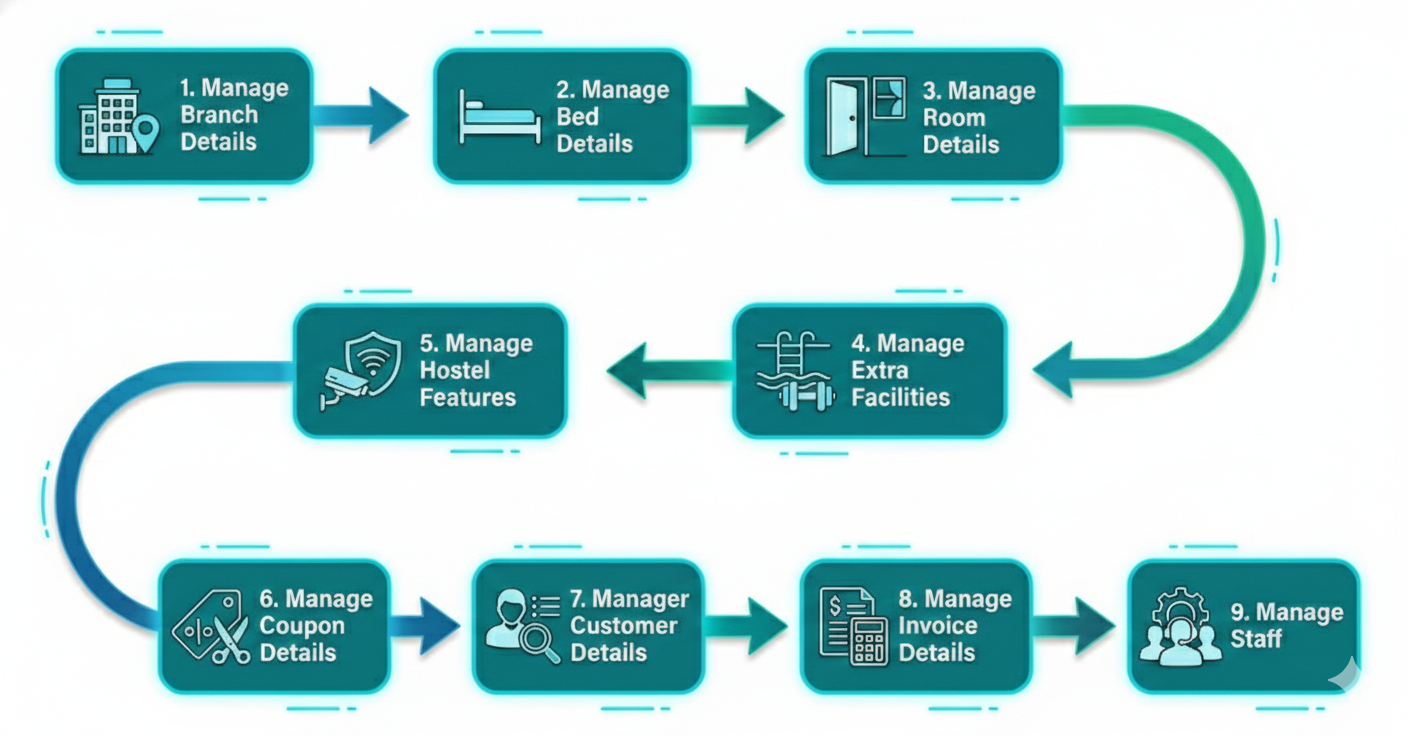
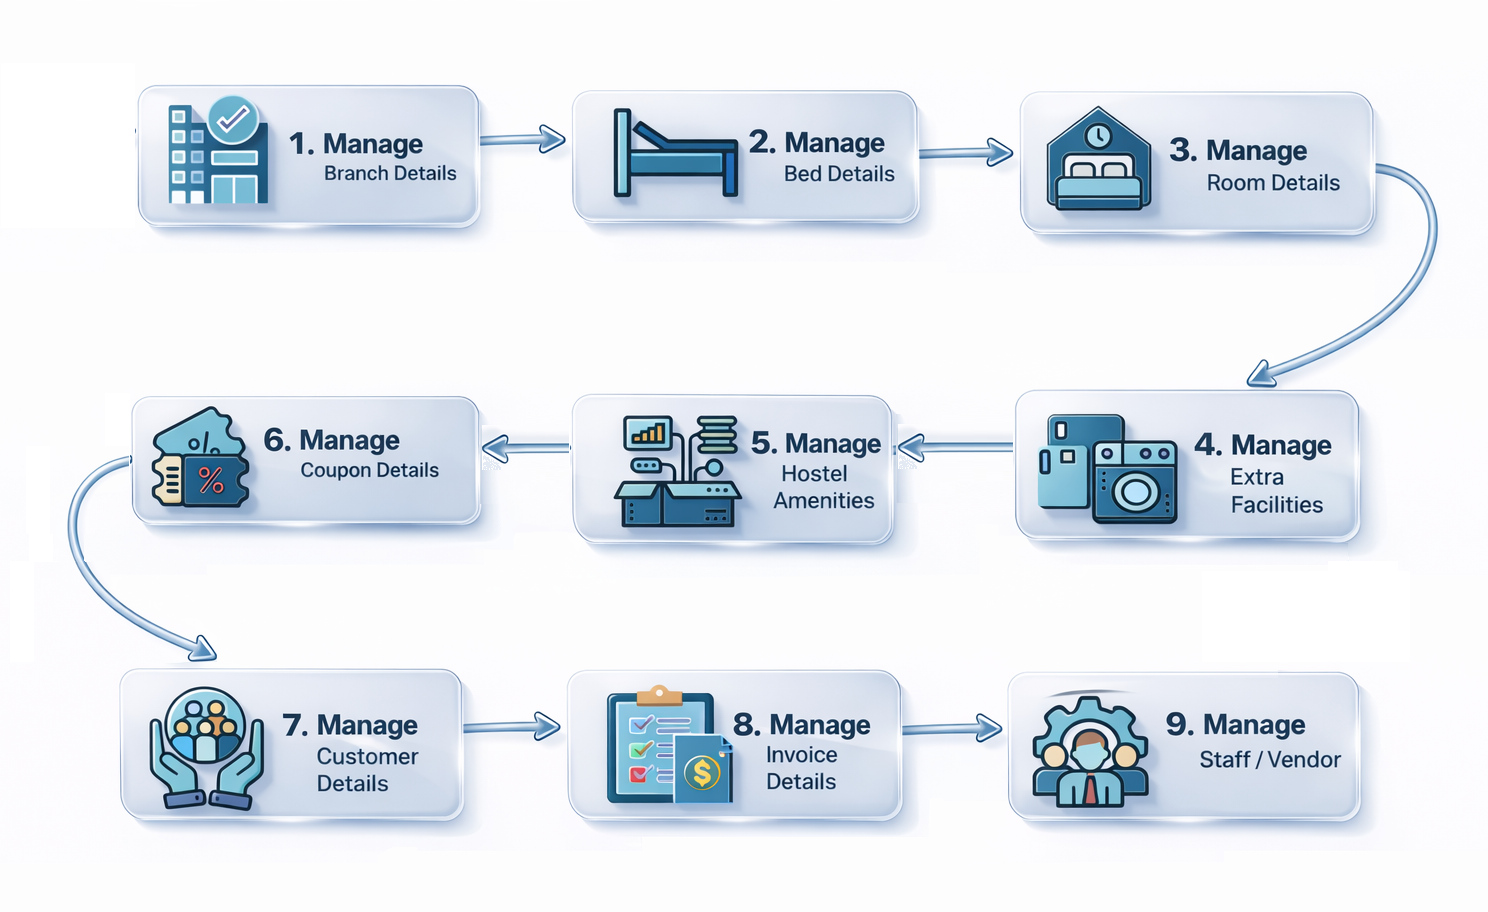
Branch and admin changes

diff --git a/webapp/controller/Hostel.controller.js b/webapp/controller/Hostel.controller.js
@@ -19,6 +19,27 @@ sap.ui.define([
             this.getOwnerComponent().getRouter().getRoute("RouteHostel").attachMatched(this._onRouteMatched, this);
             this._getBrowserLocation();
             this._initAdminSignupModel();
+            const today = new Date();
+
+            const focusedDate = new Date(
+                today.getFullYear() - 18,
+                today.getMonth(),
+                today.getDate()
+            );
+
+            const minDate = new Date(
+                today.getFullYear() - 100,
+                today.getMonth(),
+                today.getDate()
+            );
+
+            const oDateModel = new sap.ui.model.json.JSONModel({
+                focusedDate: focusedDate,
+                minDate: minDate,
+                maxDate: today
+            });
+
+            this.getView().setModel(oDateModel, "controller");
         },
         _getBrowserLocation: function () {
             if (!navigator.geolocation) {
@@ -1895,37 +1916,7 @@ sap.ui.define([
                 oInput.setValueState("None");
             }
         },
-        onSTDChange: function (oEvent) {
 
-            // 🔑 Support BOTH UI-triggered and manual calls
-            const oSTD = oEvent?.getSource?.() || sap.ui.getCore().byId("signUpSTD");
-            if (!oSTD) return;
-
-            const sValue = (oSTD.getValue() || "").trim();
-            const oMobile = sap.ui.getCore().byId("signUpPhone");
-
-            // Mandatory check (only if event exists)
-            if (oEvent && !utils._LCvalidateMandatoryField(oEvent)) {
-                return;
-            }
-
-            const STD_REGEX = /^\+[1-9][0-9]*$/;
-
-            if (!STD_REGEX.test(sValue)) {
-                oSTD.setValueState("Error");
-                oSTD.setValueStateText(
-                    "STD must start with + and contain only numbers (no leading zero)"
-                );
-
-                oMobile.setValue("");
-                oMobile.setMaxLength(18);
-                return;
-            }
-
-            oSTD.setValueState("None");
-            oMobile.setValue("");
-            oMobile.setMaxLength(sValue === "+91" ? 10 : 18);
-        },
 
 
         onAddressChange: function () {
@@ -1992,6 +1983,39 @@ sap.ui.define([
                     )
                 ]);
             }
+        },
+
+
+        onSTDChange: function (oEvent) {
+
+            // 🔑 Support BOTH UI-triggered and manual calls
+            const oSTD = oEvent?.getSource?.() || sap.ui.getCore().byId("signUpSTD");
+            if (!oSTD) return;
+
+            const sValue = (oSTD.getValue() || "").trim();
+            const oMobile = sap.ui.getCore().byId("signUpPhone");
+
+            // Mandatory check (only if event exists)
+            if (oEvent && !utils._LCvalidateMandatoryField(oEvent)) {
+                return;
+            }
+
+            const STD_REGEX = /^\+[1-9][0-9]*$/;
+
+            if (!STD_REGEX.test(sValue)) {
+                oSTD.setValueState("Error");
+                oSTD.setValueStateText(
+                    "STD must start with + and contain only numbers (no leading zero)"
+                );
+
+                oMobile.setValue("");
+                oMobile.setMaxLength(18);
+                return;
+            }
+
+            oSTD.setValueState("None");
+            // oMobile.setValue("");
+            oMobile.setMaxLength(sValue === "+91" ? 10 : 18);
         },
 
         _LCvalidateName: function (oEvent) {
@@ -4586,6 +4610,8 @@ sap.ui.define([
             }
         },
 ////
+
+
         onAdminSIGNUP: function () {
             if (!this._oAdminSignup) {
                 this._oAdminSignup = sap.ui.xmlfragment(
@@ -4610,12 +4636,12 @@ sap.ui.define([
                 });
 
             }
-            // Set DOB limits
+            // Set DOB limits - CHANGED: now 0 to 100 years (was 18 to 70)
             const oDate = sap.ui.getCore().byId("adminDOB");
             if (oDate) {
                 const now = new Date();
-                oDate.setMaxDate(new Date(now.getFullYear() - 18, now.getMonth(), now.getDate()));
-                oDate.setMinDate(new Date(now.getFullYear() - 70, now.getMonth(), now.getDate()));
+                oDate.setMaxDate(now); // Allow up to current date (age 0)
+                oDate.setMinDate(new Date(now.getFullYear() - 100, now.getMonth(), now.getDate()));
             }
             this.getView().addStyleClass("blur-background");
             this._oAdminSignup.open();
@@ -4823,7 +4849,7 @@ sap.ui.define([
             oSTD.setValueState("None");
 
             // Reset mobile on STD change
-            oMobile.setValue("");
+            // oMobile.setValue("");
 
             // Length logic
             oMobile.setMaxLength(sValue === "+91" ? 10 : 18);
@@ -4831,6 +4857,8 @@ sap.ui.define([
             // Update model
             oModel.setProperty("/STDCode", sValue);
         },
+
+
 
         ADMIN_onMobileLiveChange: function (oEvent) {
             const isValid = utils._LCvalidateMandatoryField(oEvent);
@@ -4888,12 +4916,13 @@ sap.ui.define([
             }
         },
 
+
+
         ADMIN_onChangeDOB: function (oEvent) {
             const oDatePicker = oEvent.getSource();
             const oModel = this.getView().getModel("AdminSignupModel");
-            const raw = oDatePicker.getDateValue(); // JS Date or null
+            const raw = oDatePicker.getDateValue();
 
-            // ❌ No date
             if (!raw) {
                 oDatePicker.setValueState("Error");
                 oDatePicker.setValueStateText("Date of birth is required");
@@ -4903,25 +4932,20 @@ sap.ui.define([
 
             const today = new Date();
             let age = today.getFullYear() - raw.getFullYear();
-
             const m = today.getMonth() - raw.getMonth();
             if (m < 0 || (m === 0 && today.getDate() < raw.getDate())) {
                 age--;
             }
 
-            // ❌ Age invalid
-            if (age < 18 || age > 70) {
+            if (age < 0 || age > 100) {
                 oDatePicker.setValueState("Error");
-                oDatePicker.setValueStateText("Age must be between 18 and 70");
+                oDatePicker.setValueStateText("Age must be between 0 and 100");
                 oModel.setProperty("/DOB", "");
                 return;
             }
 
-            // ✅ ALWAYS clear error — no conditions
             oDatePicker.setValueState("None");
-            oDatePicker.setValueStateText("");
 
-            // ✅ Store ISO format (never use getValue())
             const yyyy = raw.getFullYear();
             const mm = String(raw.getMonth() + 1).padStart(2, "0");
             const dd = String(raw.getDate()).padStart(2, "0");

diff --git a/webapp/controller/BranchData.controller.js b/webapp/controller/BranchData.controller.js
@@ -835,9 +835,15 @@ sap.ui.define([
             });
             this.isEdit = true;
             const oVisible = this.getView().getModel("visiblePlay");
-            // Re-validate GST to refresh UI
+            // After setting GST validation, ensure tax percentage is preserved
             setTimeout(() => {
                 this.MC_ValidateGstNumber();
+
+                // Force update of tax percentage field
+                const taxInput = this.byId("CC_id_custValue");
+                if (taxInput && oData.Value) {
+                    taxInput.setValue(oData.Value.toString());
+                }
             }, 0);
             const bIsIndia = oData.Country === "India";
             oVisible.setProperty("/isIndia", bIsIndia);
@@ -1248,11 +1254,15 @@ sap.ui.define([
             const sValue = oInput.getValue().trim();
             const dataModel = this.getView().getModel("MDmodel");
             const visiModel = this.getView().getModel("visiblePlay");
+            const isEdit = this.getView().getModel("editableModel").getProperty("/isEdit");
+
             if (!visiModel.getProperty("/isIndia")) {
                 oInput.setValueState("None");
                 return true;
             }
+
             const GST_REGEX = /^[0-9]{2}[A-Z]{5}[0-9]{4}[A-Z][0-9A-Z]Z[0-9A-Z]$/;
+
             if (!sValue) {
                 oInput.setValueState("None");
                 visiModel.setProperty("/CC_id_CustInput", false);
@@ -1276,17 +1286,70 @@ sap.ui.define([
 
             const stateCode = sValue.substring(0, 2);
 
-            if (stateCode === "29") {
-                visiModel.setProperty("/selectedIndex", 0); // CGST
-                dataModel.setProperty("/Type", "CGST/SGST");
-                dataModel.setProperty("/Value", "9");
+            // Only set default values during creation (not edit mode)
+            if (!isEdit) {
+                if (stateCode === "29") {
+                    visiModel.setProperty("/selectedIndex", 0); // CGST
+                    dataModel.setProperty("/Type", "CGST/SGST");
+                    dataModel.setProperty("/Value", "9"); // Default value for creation
+                } else {
+                    visiModel.setProperty("/selectedIndex", 1); // IGST
+                    dataModel.setProperty("/Type", "IGST");
+                    dataModel.setProperty("/Value", "18"); // Default value for creation
+                }
             } else {
-                visiModel.setProperty("/selectedIndex", 1); // IGST
-                dataModel.setProperty("/Type", "IGST");
-                dataModel.setProperty("/Value", "18");
+                // In edit mode, don't override existing values
+                // Just update the radio button selection based on GST type
+                if (stateCode === "29") {
+                    visiModel.setProperty("/selectedIndex", 0); // CGST
+                    dataModel.setProperty("/Type", dataModel.getProperty("/Type") || "CGST/SGST");
+                    // Don't override Value if it's already set
+                    if (!dataModel.getProperty("/Value")) {
+                        dataModel.setProperty("/Value", "9");
+                    }
+                } else {
+                    visiModel.setProperty("/selectedIndex", 1); // IGST
+                    dataModel.setProperty("/Type", dataModel.getProperty("/Type") || "IGST");
+                    // Don't override Value if it's already set
+                    if (!dataModel.getProperty("/Value")) {
+                        dataModel.setProperty("/Value", "18");
+                    }
+                }
             }
 
             return true;
+        },
+        onTaxPercentageChange: function (oEvent) {
+            const oInput = oEvent.getSource();
+            const sValue = oInput.getValue();
+            const dataModel = this.getView().getModel("MDmodel");
+
+            // Allow only numbers and optional single decimal point
+            let filteredValue = sValue.replace(/[^0-9.]/g, '');
+
+            // Ensure only one decimal point
+            const parts = filteredValue.split('.');
+            if (parts.length > 2) {
+                filteredValue = parts[0] + '.' + parts.slice(1).join('');
+            }
+
+            // Limit to 2 decimal places
+            if (parts[1] && parts[1].length > 2) {
+                filteredValue = parts[0] + '.' + parts[1].substring(0, 2);
+            }
+
+            oInput.setValue(filteredValue);
+            dataModel.setProperty("/Value", filteredValue);
+
+            // Validate range (0-100)
+            const numValue = parseFloat(filteredValue);
+            if (filteredValue && (numValue < 0 || numValue > 100)) {
+                oInput.setValueState("Error");
+                oInput.setValueStateText("Tax percentage must be between 0 and 100");
+            } else {
+                oInput.setValueState("None");
+                oInput.setValueStateText("");
+            }
         }
     })
 });